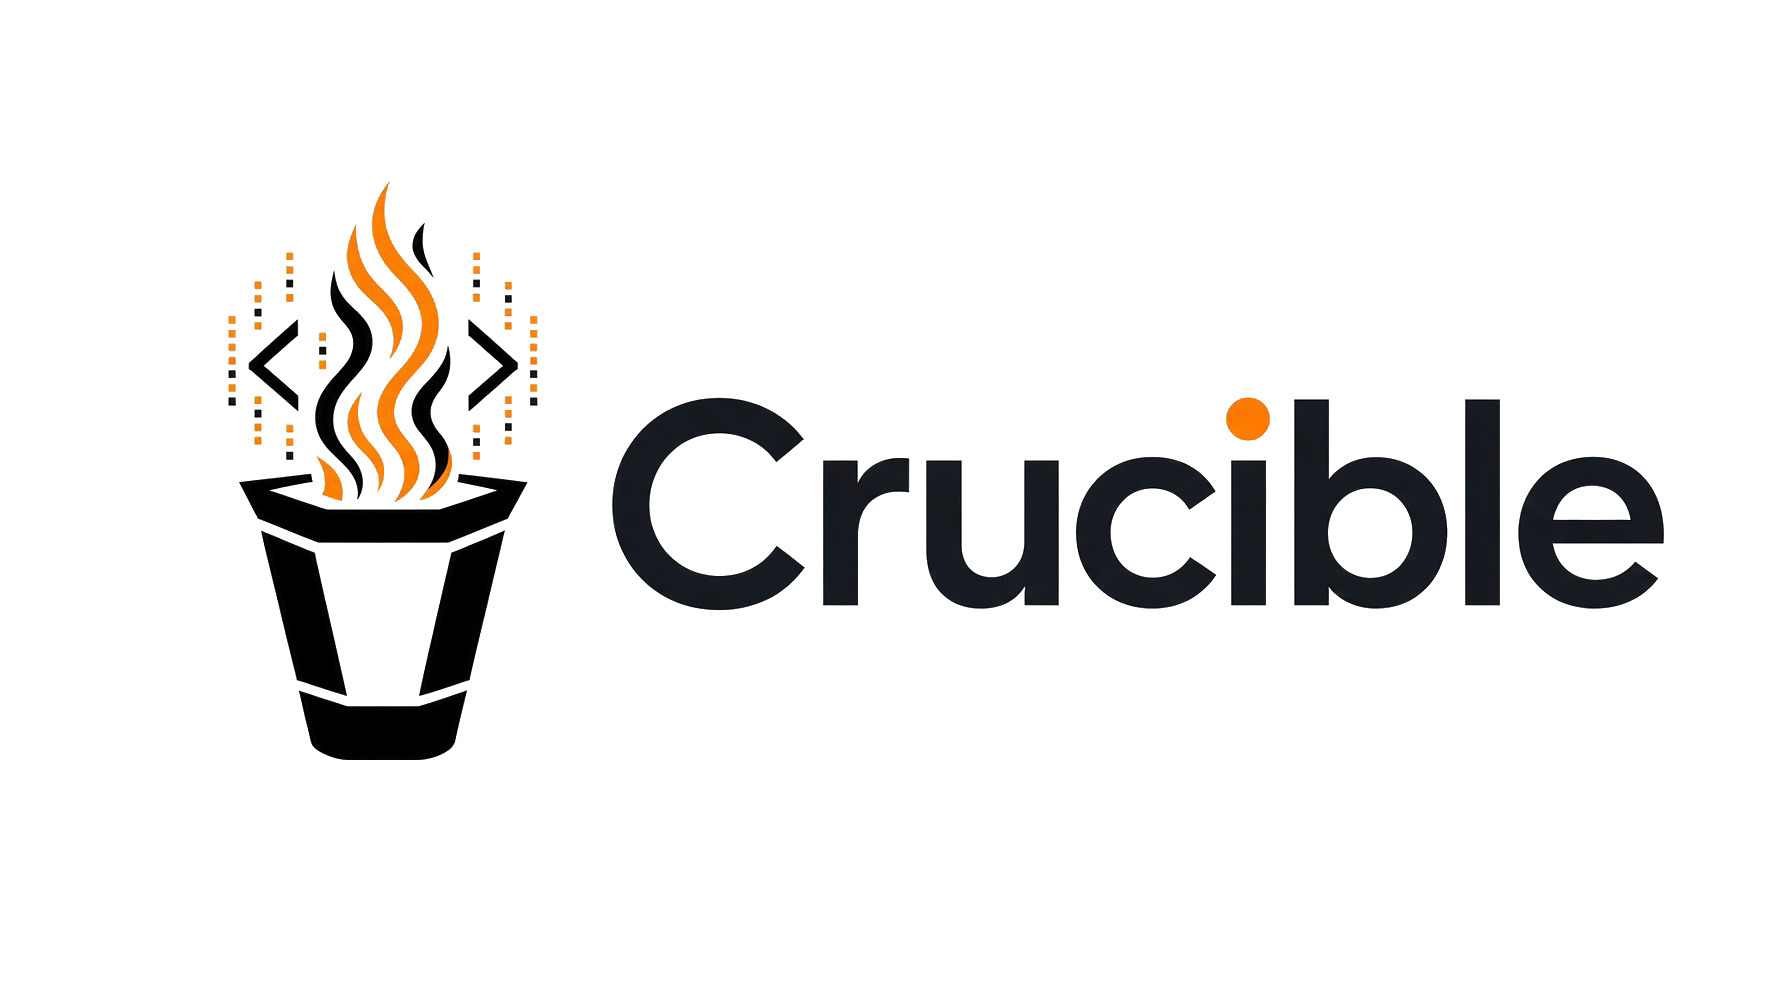
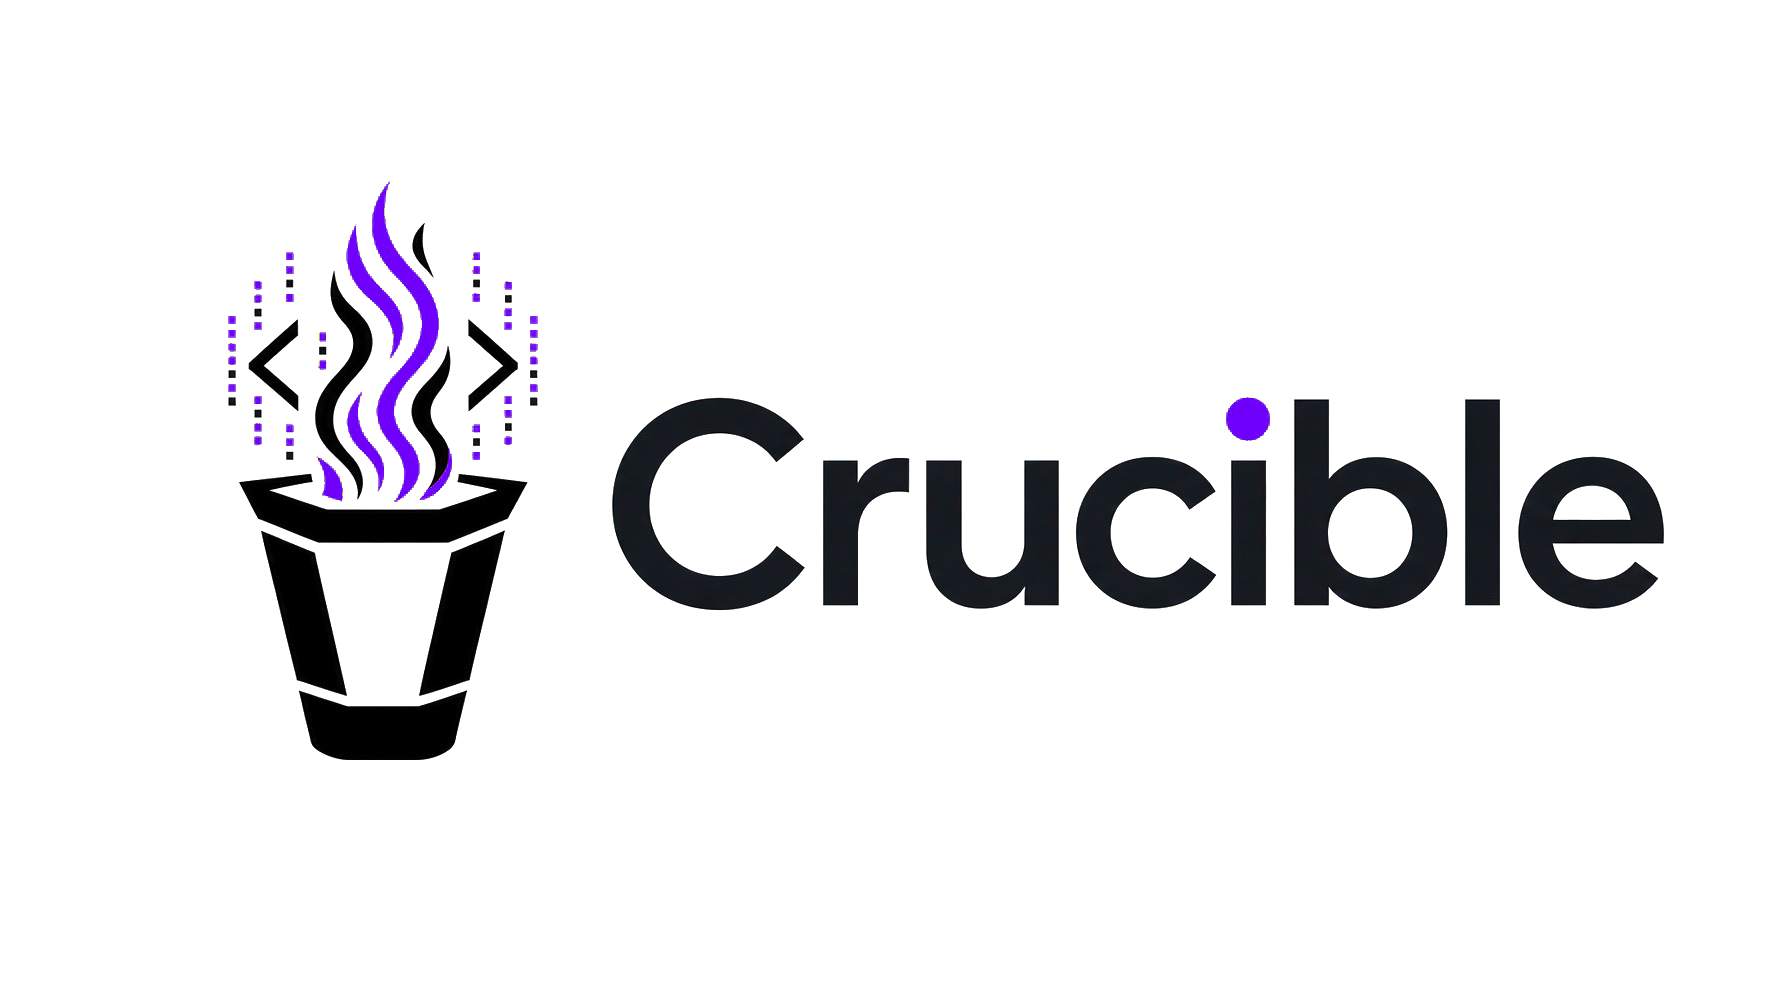
Switch Crucible brand from orange to purple
Logo marks, icons, CSS brand tokens, and remapped orange-* utilities
now use violet.

diff --git a/crucible/src/app/globals.css b/crucible/src/app/globals.css
@@ -3,10 +3,11 @@
 @tailwind utilities;
 
 /*
-  Crucible brand tokens.
+  Crucible brand tokens (purple).
   Slate/orange/amber scales invert semantically in .dark so existing
   light-oriented utilities (text-slate-900, border-slate-200, bg-orange-50…)
-  stay readable without rewriting every page.
+  stay readable without rewriting every page. The --orange-* scale is remapped
+  to the purple brand so legacy orange-* Tailwind classes follow the brand.
 */
 
 :root {
@@ -16,19 +17,19 @@
   --line: #ddd4cb;
   --text: #12141a;
   --muted: #6b6570;
-  --accent: #ff5a1f;
-  --accent-2: #ff7a3d;
+  --accent: #7c3aed;
+  --accent-2: #8b5cf6;
   --danger: #e11d48;
   --warning: #d97706;
   --background: #f7f4f1;
   --foreground: #12141a;
   --surface: #ffffff;
   --surface-elevated: #ffffff;
-  --brand: #ff5a1f;
-  --brand-hover: #ff7038;
-  --brand-soft: rgba(255, 90, 31, 0.12);
+  --brand: #7c3aed;
+  --brand-hover: #6d28d9;
+  --brand-soft: rgba(124, 58, 237, 0.12);
   --brand-ink: #12141a;
-  --brand-flame: #ff5a1f;
+  --brand-flame: #8b5cf6;
   /* Inline/fenced code chips — never use remapped slate/orange scales here */
   --code-chip-bg: #ece8e4;
   --code-chip-fg: #1a1512;
@@ -76,17 +77,18 @@
   --emerald-900: #064e3b;
   --emerald-950: #022c22;
 
-  --orange-50: #fff4ef;
-  --orange-100: #ffe4d6;
-  --orange-200: #ffc4a8;
-  --orange-300: #ff9a66;
-  --orange-400: #ff7340;
-  --orange-500: #ff5a1f;
-  --orange-600: #e84a12;
-  --orange-700: #c43b0d;
-  --orange-800: #9a2f0f;
-  --orange-900: #7a2812;
-  --orange-950: #3f1208;
+  /* Legacy orange-* utilities → purple brand scale */
+  --orange-50: #f5f3ff;
+  --orange-100: #ede9fe;
+  --orange-200: #ddd6fe;
+  --orange-300: #c4b5fd;
+  --orange-400: #a78bfa;
+  --orange-500: #8b5cf6;
+  --orange-600: #7c3aed;
+  --orange-700: #6d28d9;
+  --orange-800: #5b21b6;
+  --orange-900: #4c1d95;
+  --orange-950: #2e1065;
 
   --rose-50: #fff1f2;
   --rose-100: #ffe4e6;
@@ -120,19 +122,19 @@
   --line: #243246;
   --text: #e8eef5;
   --muted: #8b9cb3;
-  --accent: #ff7340;
-  --accent-2: #ff9a66;
+  --accent: #a78bfa;
+  --accent-2: #c4b5fd;
   --background: #07090d;
   --foreground: #e8eef5;
   --surface: #0c1016;
   --surface-elevated: #121820;
-  --brand: #ff5a1f;
-  --brand-hover: #ff7340;
-  --brand-soft: rgba(255, 90, 31, 0.16);
+  --brand: #8b5cf6;
+  --brand-hover: #a78bfa;
+  --brand-soft: rgba(139, 92, 246, 0.18);
   --brand-ink: #f4f1ec;
-  --brand-flame: #ff5a1f;
+  --brand-flame: #a78bfa;
   --code-chip-bg: #1a2029;
-  --code-chip-fg: #ffc4a0;
+  --code-chip-fg: #ddd6fe;
   --code-chip-border: #2a3340;
   --code-block-bg: #0c1016;
   --code-block-fg: #f3eee8;
@@ -176,17 +178,17 @@
   --emerald-900: #ecfdf5;
   --emerald-950: #f0fdf8;
 
-  --orange-50: rgba(255, 90, 31, 0.08);
-  --orange-100: rgba(255, 90, 31, 0.14);
-  --orange-200: rgba(255, 90, 31, 0.28);
-  --orange-300: #ff9a66;
-  --orange-400: #ff7340;
-  --orange-500: #ff5a1f;
-  --orange-600: #ff7340;
-  --orange-700: #ff9a66;
-  --orange-800: #ffc4a8;
-  --orange-900: #ffe4d6;
-  --orange-950: #fff4ef;
+  --orange-50: rgba(139, 92, 246, 0.08);
+  --orange-100: rgba(139, 92, 246, 0.14);
+  --orange-200: rgba(139, 92, 246, 0.28);
+  --orange-300: #c4b5fd;
+  --orange-400: #a78bfa;
+  --orange-500: #8b5cf6;
+  --orange-600: #a78bfa;
+  --orange-700: #c4b5fd;
+  --orange-800: #ddd6fe;
+  --orange-900: #ede9fe;
+  --orange-950: #f5f3ff;
 
   --rose-50: #1a1216;
   --rose-100: #22161c;

diff --git a/crucible/src/components/brand/crucible-lockup.tsx b/crucible/src/components/brand/crucible-lockup.tsx
@@ -25,7 +25,7 @@ export function CrucibleGlyph({ className }: { className?: string }) {
   );
 }
 
-/** Wordmark matches the logo: geometric sans + orange tittle on the i. */
+/** Wordmark matches the logo: geometric sans + purple tittle on the i. */
 export function CrucibleWordmark({ className }: { className?: string }) {
   return (
     <span
@@ -35,7 +35,7 @@ export function CrucibleWordmark({ className }: { className?: string }) {
       Cruc
       <span className="relative inline-block" aria-hidden>
         ı
-        <span className="pointer-events-none absolute left-1/2 top-[0.06em] h-[0.2em] w-[0.2em] -translate-x-1/2 rounded-full bg-[var(--brand-flame,#ff5a1f)]" />
+        <span className="pointer-events-none absolute left-1/2 top-[0.06em] h-[0.2em] w-[0.2em] -translate-x-1/2 rounded-full bg-[var(--brand-flame,#8b5cf6)]" />
       </span>
       ble
     </span>

diff --git a/crucible/src/app/api/scorecards/[assignmentId]/route.ts b/crucible/src/app/api/scorecards/[assignmentId]/route.ts
@@ -111,7 +111,7 @@ export async function GET(req: Request, ctx: { params: Promise<{ assignmentId: s
 <html><head><meta charset="utf-8"/><title>Crucible Scorecard</title>
 <style>
   body{font-family:IBM Plex Sans,Segoe UI,sans-serif;background:#0b1220;color:#e5eefb;padding:32px;max-width:800px;margin:0 auto}
-  h1{letter-spacing:.2em;font-size:14px;color:#ff5a1f}
+  h1{letter-spacing:.2em;font-size:14px;color:#7c3aed}
   h2{font-size:28px;margin:.4rem 0 1rem}
   .grid{display:grid;grid-template-columns:1fr 1fr;gap:8px}
   .cell{border:1px solid #1f2a3d;border-radius:8px;padding:10px 12px;font-family:ui-monospace,monospace;font-size:13px}

diff --git a/crucible/public/presentation-script.html b/crucible/public/presentation-script.html
@@ -11,7 +11,7 @@
       --line: #1f2a3d;
       --text: #e5eefb;
       --muted: #8aa0b8;
-      --accent: #ff5a1f;
+      --accent: #7c3aed;
       --font: "IBM Plex Sans", "Segoe UI", system-ui, sans-serif;
       --mono: "IBM Plex Mono", ui-monospace, monospace;
     }

diff --git a/crucible/public/presentation.html b/crucible/public/presentation.html
@@ -11,7 +11,7 @@
       --line: #1f2a3d;
       --text: #e5eefb;
       --muted: #8aa0b8;
-      --accent: #ff5a1f;
+      --accent: #7c3aed;
       --accent-dim: rgba(34, 211, 238, 0.12);
       --warn: #fbbf24;
       --ok: #34d399;
